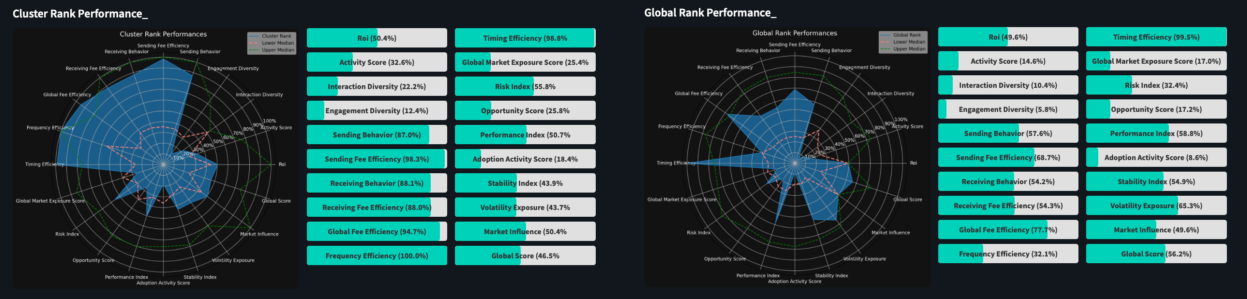
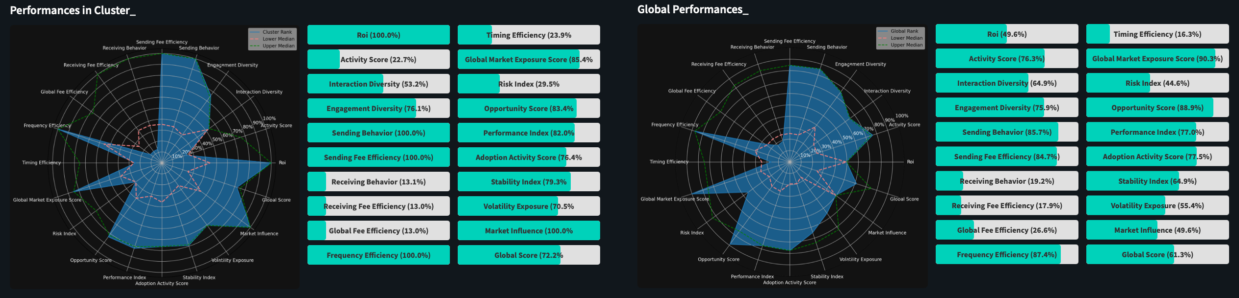
core

diff --git a/src/backend/reporting/display_kpi.py b/src/backend/reporting/display_kpi.py
@@ -46,7 +46,7 @@ def display_kpi(user_data, global_radar, cluster_radar):
 
     st.markdown(custom_css, unsafe_allow_html=True)
 
-    st.write("#### Cluster Rank Performance_")
+    st.write("#### Performances in Cluster_")
     col1, col2, col3 = st.columns([2, 1, 1])
 
     with col1:
@@ -75,7 +75,7 @@ def display_kpi(user_data, global_radar, cluster_radar):
                             """, unsafe_allow_html=True)
 
     st.write('---')
-    st.write("#### Global Rank Performance_")
+    st.write("#### Global Performances_")
     col1, col2, col3 = st.columns([2, 1, 1])
 
     with col1:

diff --git a/src/frontend/layouts/page0.py b/src/frontend/layouts/page0.py
@@ -180,9 +180,9 @@ Metrics are displayed for global and cluster ranks. The radar charts provide a v
     """)
     col1, col2 = st.columns(2)
     with col1:
-        st.image("src/frontend/layouts/pictures/cluster_rank_example.png", caption="", width=600)
+        st.image("src/frontend/layouts/pictures/cluster_metrics_example.png", caption="", width=600)
     with col2:
-        st.image("src/frontend/layouts/pictures/global_rank_example.png", caption="", width=600)
+        st.image("src/frontend/layouts/pictures/global_metrics_example.png", caption="", width=600)
 
     st.write("---")
 

diff --git a/src/backend/reporting/plot_radar.py b/src/backend/reporting/plot_radar.py
@@ -45,7 +45,7 @@ def plot_radar_chart(bounds, user_data, to_plot='global_rank'):
     )
     ax.set_thetagrids(np.degrees(angles), metrics_names, fontsize=10, color='white')
 
-    ax.set_title(f"{to_plot.replace('_', ' ').title()} Performances", fontsize=14, color='white', pad=35)
+    #ax.set_title(f"{to_plot.replace('_', ' ').title().rstrip(' Rank')} Performances", fontsize=14, color='white', pad=35)
     ax.legend(loc='upper right', bbox_to_anchor=(1.1, 1.1), framealpha=0.5)
     fig.subplots_adjust(top=0.80)
     plt.tight_layout()

diff --git a/src/frontend/layouts/page4.py b/src/frontend/layouts/page4.py
@@ -9,7 +9,7 @@ def page_4():
     st.write("""
 As the final step of the project, the performance report delivers insights into a user's behavioral analysis. It includes a summary of the cluster analysis associated with the user, an evaluation of strengths and weaknesses within the DeFi ecosystem, and offers recommendations to enhance performance.
 
-To see the step-by-step analysis, please visit the `Study Overview_` section.
+>To see the step-by-step analysis, please visit the `Study Overview_` section.
 
 ---
     """)

diff --git a/src/backend/reporting/recommendations.py b/src/backend/reporting/recommendations.py
@@ -28,10 +28,12 @@ def recommendations_board(ranks, address):
     display_report(user_data, really=True)
     st.write("---")
 
+
     # Display radar charts and KPI for global and cluster ranks
-    global_radar, cluster_radar = get_radar(ranks, user_data)
-    display_kpi(
+    with st.spinner('Loading charts'):
+        global_radar, cluster_radar = get_radar(ranks, user_data)
+        display_kpi(
         user_data,
         global_radar,
         cluster_radar
-    )
+        )

diff --git a/README.md b/README.md
@@ -148,5 +148,4 @@ This will start the application, and you can access it in your web browser at [h
 
 ---
 ## License
-This project is licensed under the terms of the [MIT License](LICENSE).  
-If you find this project helpful, please consider giving it a star or citing it in your work.
+This project is licensed under the terms of the [MIT License](LICENSE). If you find this project helpful, please consider giving it a star or citing it in your work.
